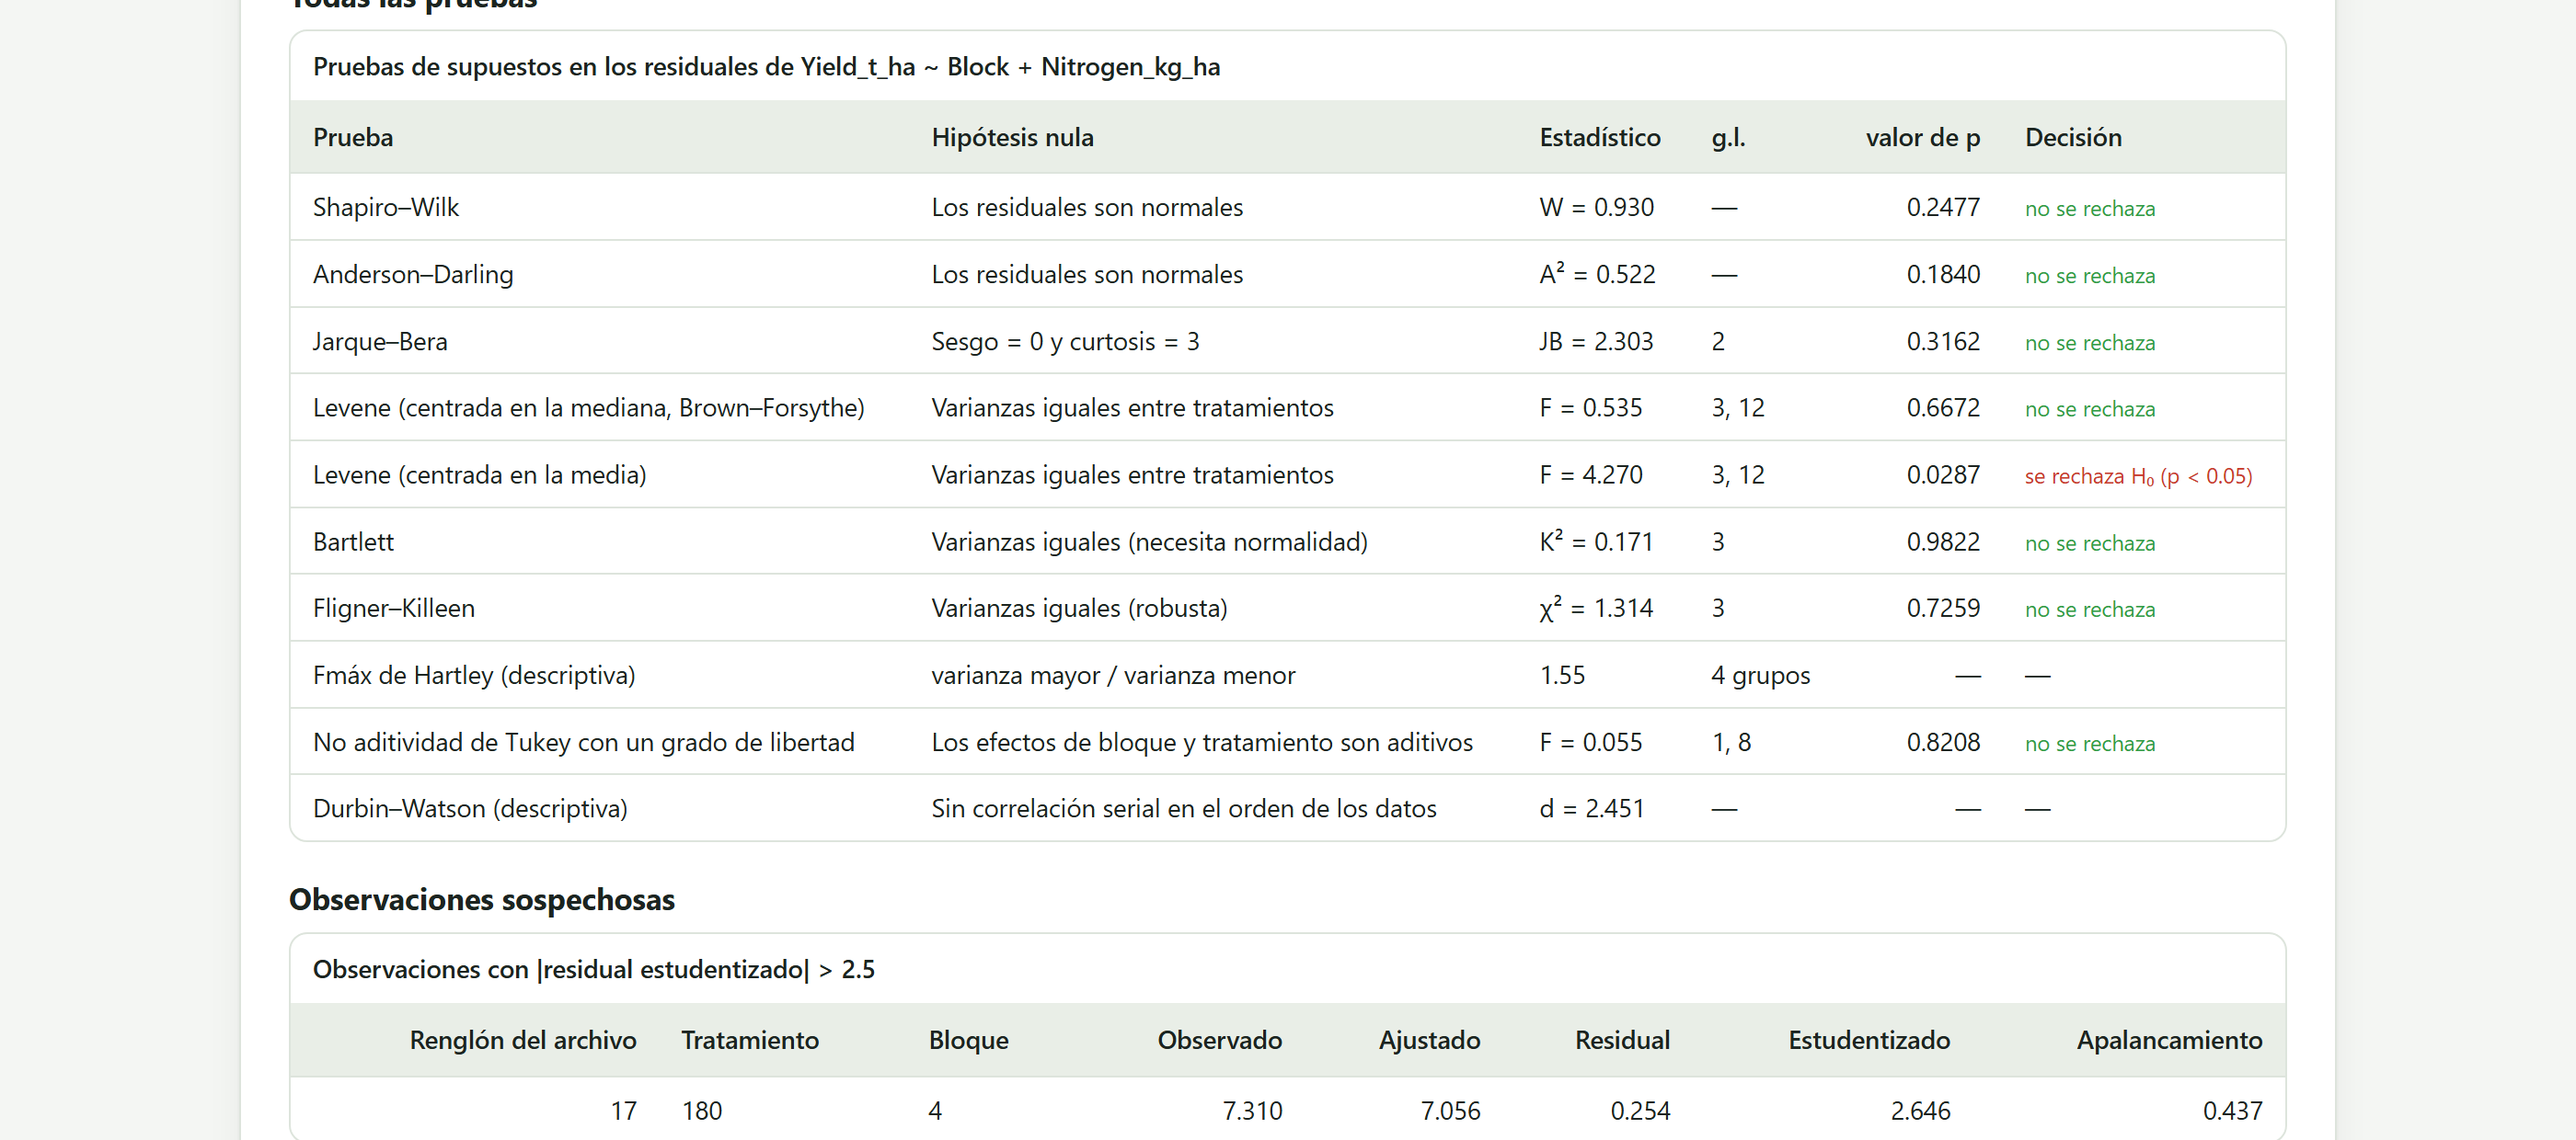
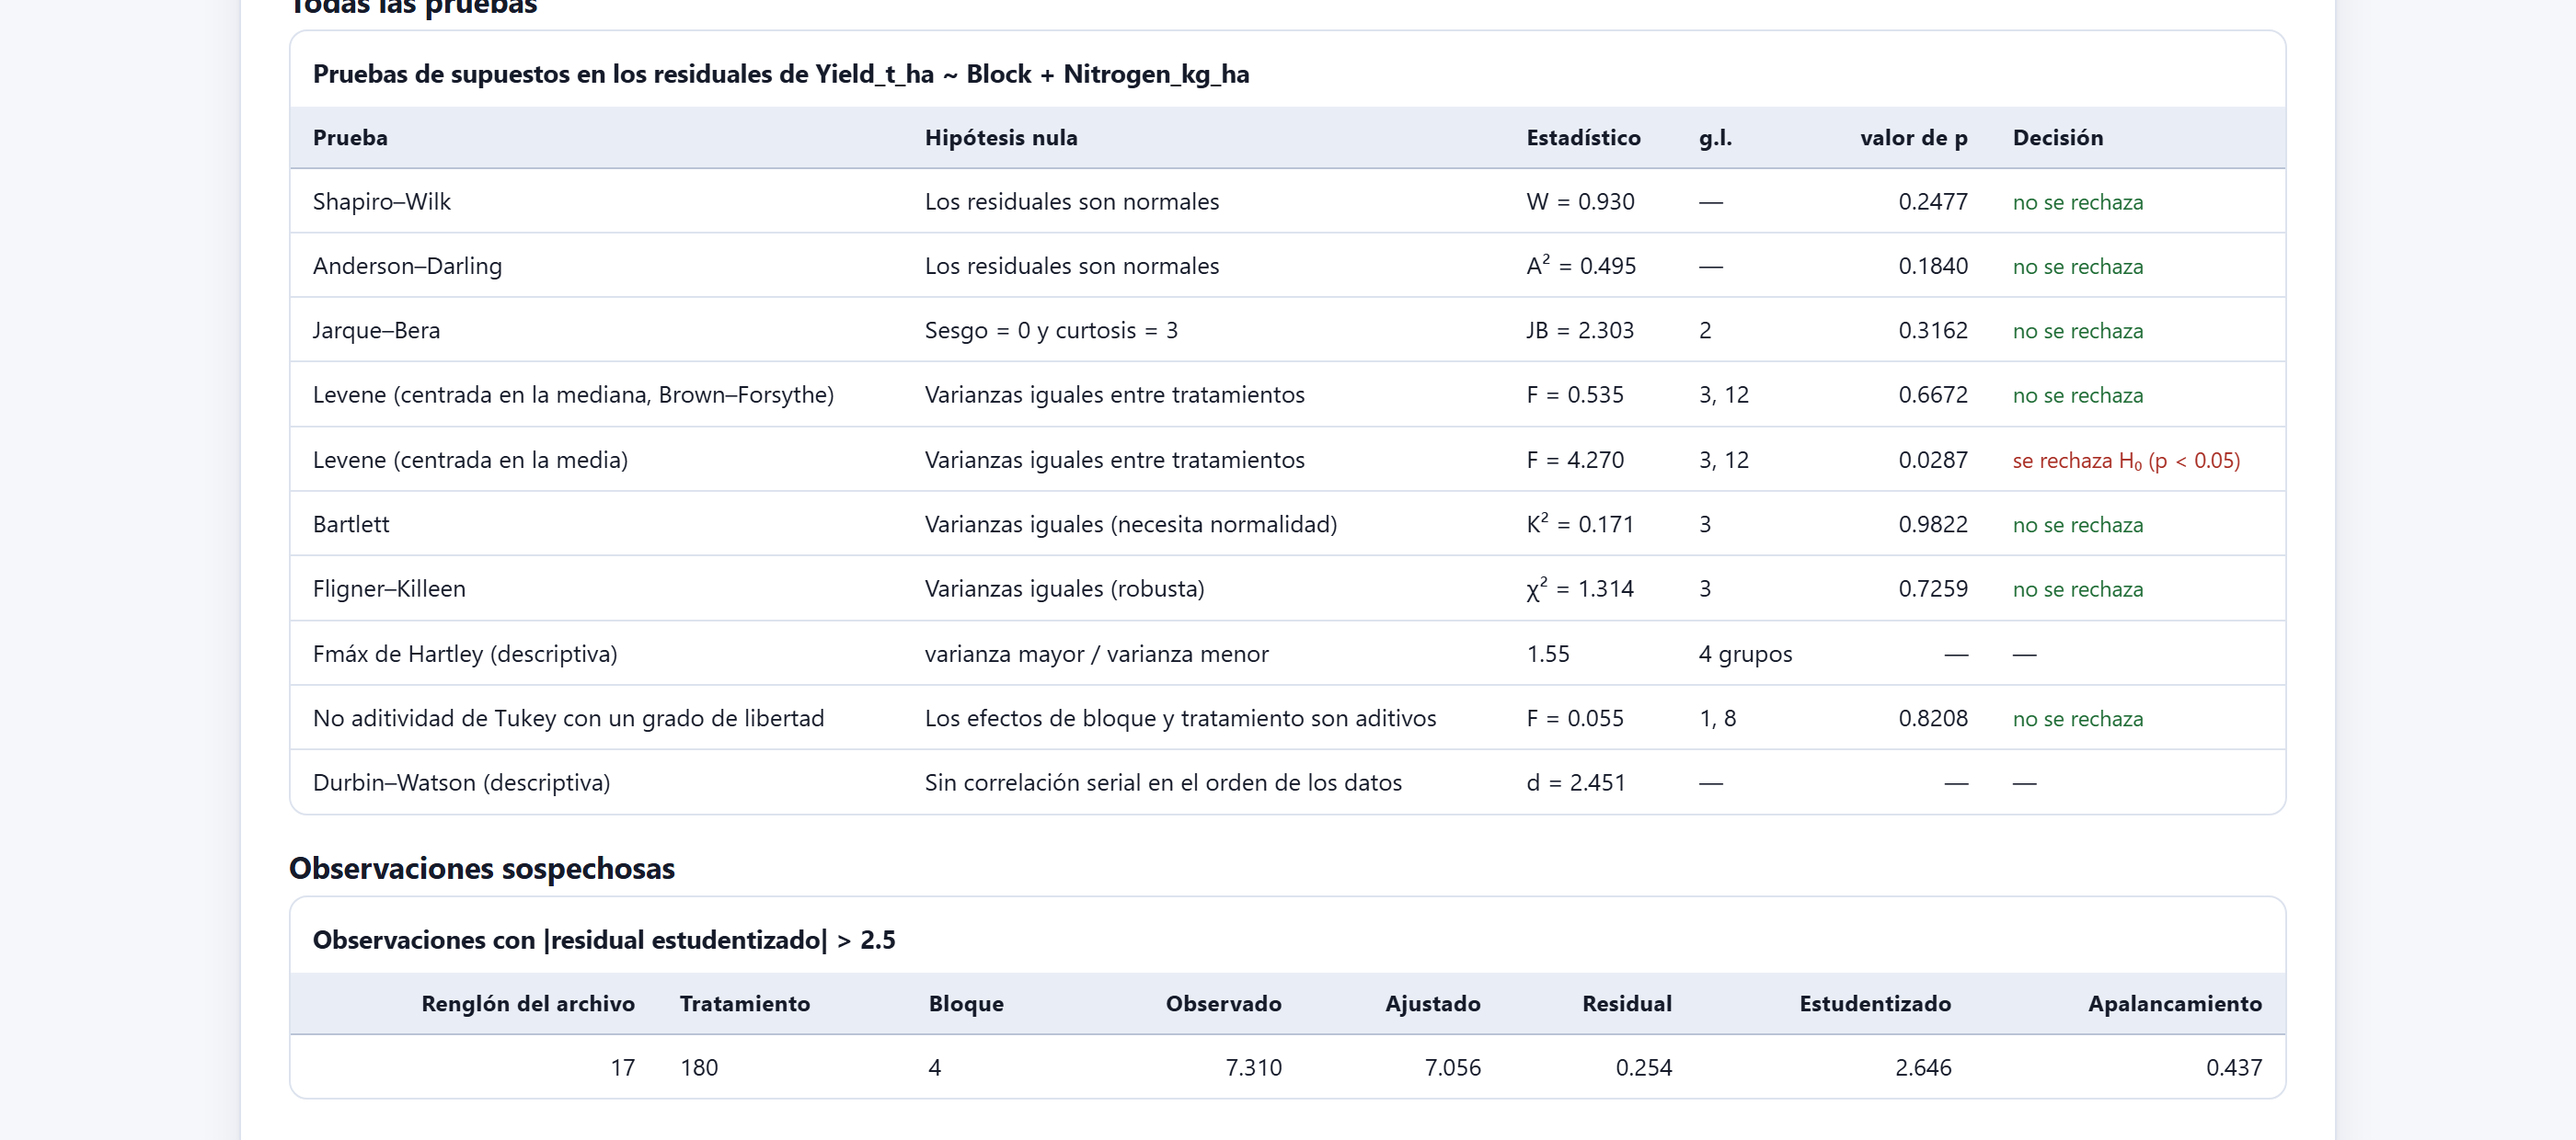
Anderson–Darling: igual que nortest::ad.test
- La p de Stephens usa los mismos intervalos que nortest y queda en 3.7e-24
  desde AA = 10. Antes la última cuadrática se usaba sin tope y, como vuelve a
  subir, daba p = 1 («los residuales son normales») con muestras grandes muy
  poco normales (AA > ~307; por ejemplo, 2000 residuales con un atípico enorme).
- Las probabilidades entran como logaritmos que no pierden las colas, en vez de
  recortarlas a [1e-12, 1 − 1e-12]; el estadístico ya no cambia con datos a más
  de ~7 desviaciones estándar.
- La tabla del Bloque 4 y el informe muestran A² como lo informa R (antes, el
  corregido por tamaño de muestra, que solo sirve para la p): en el maíz,
  A² = 0.495 en vez de 0.522, con la misma p = 0.1840.

Comprobado contra nortest en 54 muestras (n de 8 a 50 000, con atípicos
extremos): estadístico a 7e-13 y p a 4e-12 relativo. Se rehízo la captura de
la tabla del Bloque 4 en el manual (sin la barra del navegador, como las demás).

diff --git a/js/assump.js b/js/assump.js
@@ -70,20 +70,26 @@ AS.andersonDarling = x0 => {
   const x = S.sorted(x0), n = x.length;
   if (n < 8) return { A: NaN, p: NaN, n, note: 'needs n ≥ 8' };
   const m = S.mean(x), sd = S.sd(x);
+  /* log Φ(z) without losing the tails: log1p above 0, Laplace's asymptotic series below z = −37 */
+  const logPnorm = z => {
+    if (z > 0) return Math.log1p(-S.pnorm(-z));
+    if (z > -37) return Math.log(S.pnorm(z));
+    const y2 = z * z;
+    return -y2 / 2 - Math.log(-z) - 0.918938533204672741780329736406 + Math.log1p(-1 / y2 + 3 / (y2 * y2) - 15 / (y2 * y2 * y2) + 105 / (y2 * y2 * y2 * y2));
+  };
   let s = 0;
-  for (let i = 0; i < n; i++) {
-    const F1 = Math.min(1 - 1e-12, Math.max(1e-12, S.pnorm((x[i] - m) / sd)));
-    const F2 = Math.min(1 - 1e-12, Math.max(1e-12, S.pnorm((x[n - 1 - i] - m) / sd)));
-    s += (2 * i + 1) * (Math.log(F1) + Math.log(1 - F2));
-  }
+  for (let i = 0; i < n; i++) s += (2 * i + 1) * (logPnorm((x[i] - m) / sd) + logPnorm(-(x[n - 1 - i] - m) / sd));
   const A = -n - s / n;
   const AA = A * (1 + 0.75 / n + 2.25 / (n * n));
+  /* Stephens' p for the modified statistic, on the same intervals as nortest; from 10 on p stays at 3.7e-24,
+     because the last quadratic turns upwards (it would give p = 1 near AA = 307) */
   let p;
-  if (AA >= 0.6) p = Math.exp(1.2937 - 5.709 * AA + 0.0186 * AA * AA);
-  else if (AA > 0.34) p = Math.exp(0.9177 - 4.279 * AA - 1.38 * AA * AA);
-  else if (AA > 0.2) p = 1 - Math.exp(-8.318 + 42.796 * AA - 59.938 * AA * AA);
-  else p = 1 - Math.exp(-13.436 + 101.14 * AA - 223.73 * AA * AA);
-  return { A: AA, p: Math.min(1, Math.max(0, p)), n };
+  if (AA < 0.2) p = 1 - Math.exp(-13.436 + 101.14 * AA - 223.73 * AA * AA);
+  else if (AA < 0.34) p = 1 - Math.exp(-8.318 + 42.796 * AA - 59.938 * AA * AA);
+  else if (AA < 0.6) p = Math.exp(0.9177 - 4.279 * AA - 1.38 * AA * AA);
+  else if (AA < 10) p = Math.exp(1.2937 - 5.709 * AA + 0.0186 * AA * AA);
+  else p = 3.7e-24;
+  return { A, AA, p: Math.min(1, Math.max(0, p)), n };
 };
 
 /* ---------- Jarque–Bera (skewness + kurtosis) ---------- */

diff --git a/CHANGELOG.md b/CHANGELOG.md
@@ -4,6 +4,7 @@
 
 - Studentized range (`S.ptukey` and `S.qtukey`, used by Tukey, Student–Newman–Keuls, REGWQ, Duncan, Games–Howell and the Nemenyi test): the last cut-off of the inner integral was exp(−30/k) instead of exp(−30) (there is a single range), so with many means every probability below that threshold became 0 (k = 10: exp(−3) ≈ 0.05). P-values and critical values came out too large, noticeably with five or more means and few error degrees of freedom: ptukey(1, 10, 5) gave 0 instead of 0.0023349, ptukey(3, 10, 5) 0.42066 instead of 0.42388, and the critical value q(0.95; 10, 5) 7.00264 instead of 6.99470. The first term of the integral also uses now the threshold exp(−50/k) of the classical algorithm. Checked against R 4.4.2 on a grid of 125 points (k = 2 to 20, ν = 2 to ∞; all within 1e-7) and, end to end, against TukeyHSD and the critical ranges of SNK, Duncan and REGWQ.
 - Normal distribution (`S.pnorm`, and through it `S.qnorm`, Shapiro–Wilk, Anderson–Darling, the normal scores of Fligner–Killeen, the normal approximations of Dunn and Mann–Whitney, the Q–Q band and the studentized range): `erf` is now the double-precision rational approximation of Cody (1969), the same as in BreedingPro, and `pnorm` is computed from `erfc`, so the lower tail keeps its relative precision. The former approximation was good to about 4e-8 in absolute value and lost the tail: pnorm(−8) gave 6.1e-16 instead of 6.2e-16, pnorm(−20) gave 0, and qnorm(0.5) gave 3.8e-8 instead of 0. Against R 4.4.2, pnorm now agrees within 1.1e-15 (2.4e-13 relative in the lower tail, down to z = −38) and qnorm within 1.1e-9 relative; the p-value of Shapiro–Wilk agrees with `shapiro.test` within 7e-14 (it was 4.7e-7) and the studentized range with `ptukey` within 4e-12 (it was 3e-8). No result changes at the precision the app prints, except very small tail probabilities, which are now right.
+- Block 4, Anderson–Darling: now identical to `nortest::ad.test`. (1) The p-value of Stephens' formula is taken on the same intervals as nortest and stays at 3.7e-24 from AA = 10 on; before, the last quadratic was used without a limit and, since it turns upwards, it gave p = 1 ("the residuals are normal") for clearly non-normal large samples (AA above about 307, for instance 2000 residuals with one gross outlier). (2) The cumulative probabilities enter as logarithms computed without losing the tails, instead of being clipped to [1e-12, 1 − 1e-12], so the statistic no longer changes with observations beyond about 7 standard deviations. (3) The table of Block 4 and the report show the statistic A² as R reports it; before they showed the version corrected for sample size, A²·(1 + 0.75/n + 2.25/n²), which only serves to compute the p-value. In the maize example A² = 0.495 instead of 0.522, with the same p = 0.1840. Checked against nortest on 54 samples (n = 8 to 50 000, gross outliers included): statistic within 7e-13 and p-value within 4e-12 (relative). The screenshot of that table in the user manual was taken again.
 - The program no longer carries any third-party code. The spreadsheet library it bundled was replaced by `js/sheets.js`, written for AgriDesign: it reads `.xlsx`, `.xlsm` and `.ods` with the decompressor the browser already provides and `DOMParser`, and writes the field book of Block 8 as a real `.xlsx` through the program's own ZIP writer. The old binary formats `.xls` and `.xlsb` are no longer read; the app now says so and asks for the file to be saved as `.xlsx` or `.csv` first.
 - The whole platform is now bilingual (English / Spanish) and has a light and a dark theme, chosen from the top bar (EN | ES and ☾ / ☀) and remembered between sessions. The language starts from the browser and the theme from the operating system until the reader picks one. Every block, every table, every automatic interpretation, the figure editor and export bar, the field book of Block 8 and the whole report of Block 7 (including its date, its table and figure captions and the drafted methods paragraph) follow the chosen language; figures keep a light background whatever the page theme, and the "Dark background" preset is still available per figure.
 - server.ps1: when the port is busy, the message now suggests `server.ps1 -Port 8801` (it named a non-existent `servidor.ps1`).
